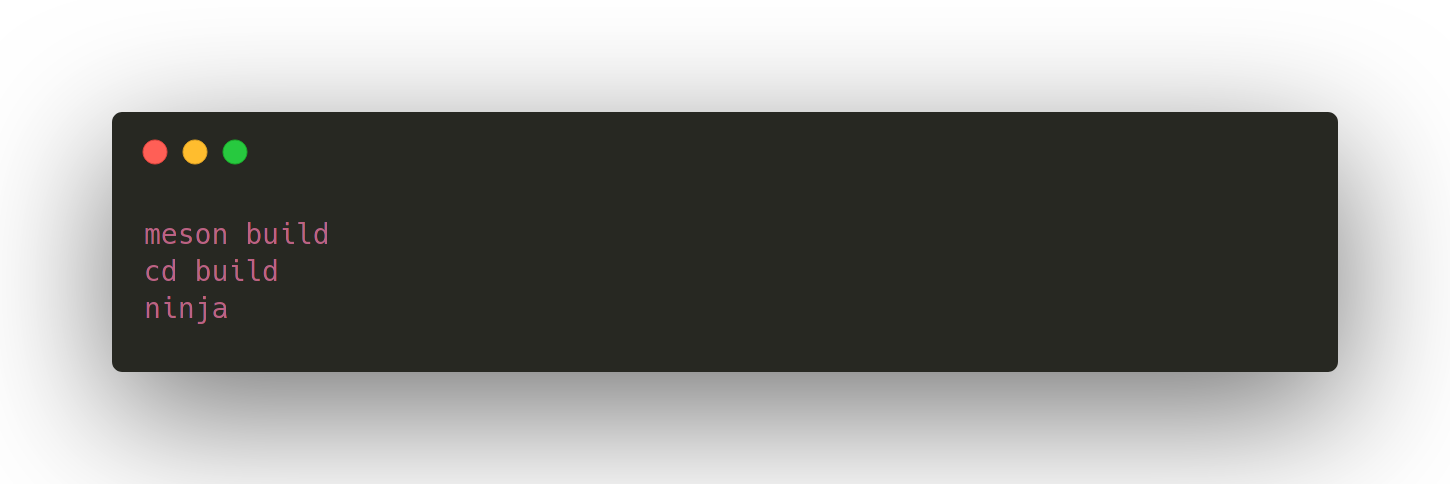
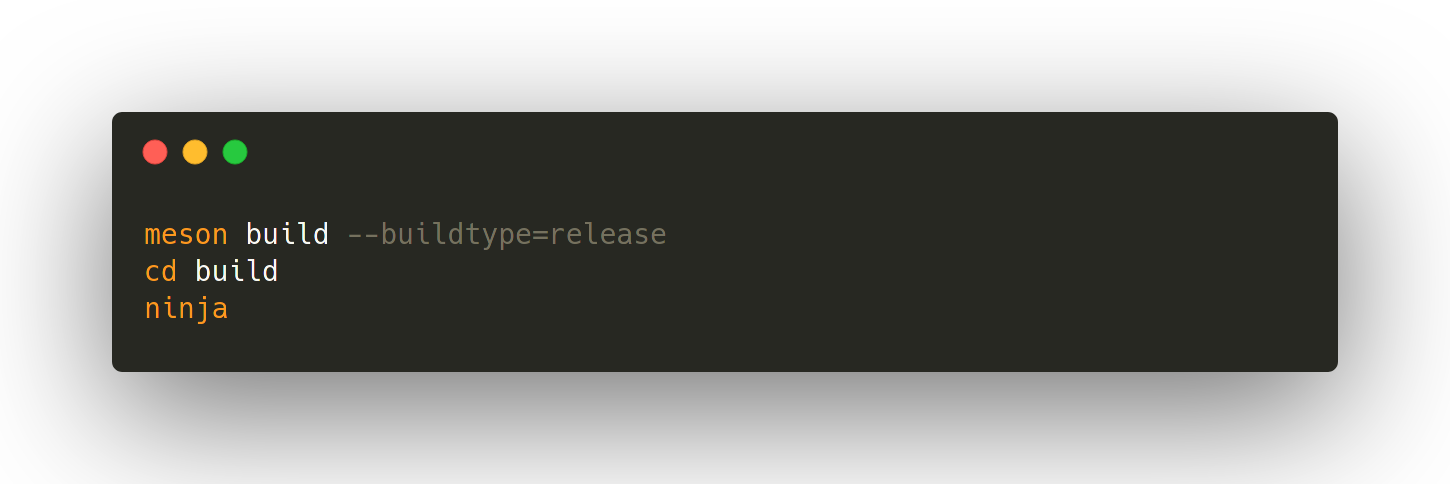
minor fixes

Changed region(s): [[0.0931, 0.4649, 0.4655, 0.5888], [0.0931, 0.6198, 0.1552, 0.6818]]

diff --git a/README.md b/README.md
@@ -18,7 +18,6 @@ CATnet is a more desentralized web for a more modern age.
 ### Cloning
 Either download a .tar.gz/.zip from the green *download* button above, or clone via git:
 ![Cloning](assets/cloning.png)
-or
 ```bash
 git clone https://github.com/ZincSoft/CATNET.git
 ```
@@ -27,9 +26,8 @@ CATnet uses the Meson build system, because quite simply, it is one of the best 
 If on Linux, just install your distros meson package, and ninja will be installed along side it. Same on Mac OS. On Windows, winget doesn't have a package for it. Please look up installation directions for Meson and Ninja on Windows. Or throw your Windows cursed hard drive in a bin. Either works.  
 As of now, you do not need any libraries preinstalled because the C/C++ standard libraries (duh). However, since Google ProtoBuf takes a while to build, you can download a prebuilt binary from your package manager to speed up the build (the build scripts try to automatically detect it). The following is how to build CATnet.  
 ![Building](assets/build.png)
-or
 ```bash
-meson build
+meson build --buildtype=release
 cd build
 ninja
 ```
@@ -38,7 +36,6 @@ ninja
 #### Participant
 Look at the help menu, then run with the flags/arguments you want!
 ![Participant](assets/participant.png)
-or
 ```bash
 catnetd participant --help
 ```
